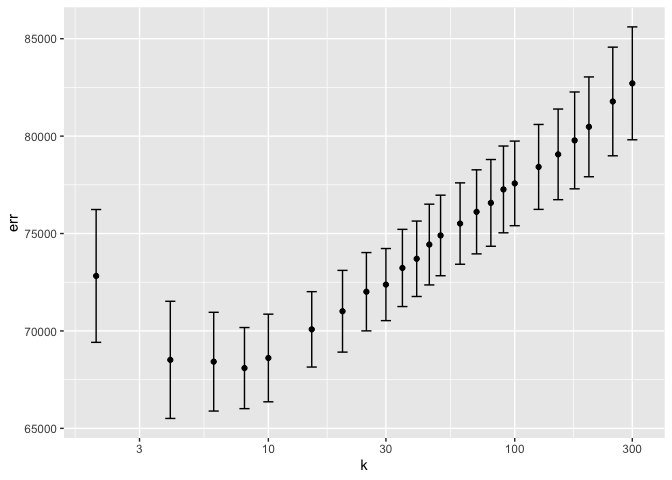
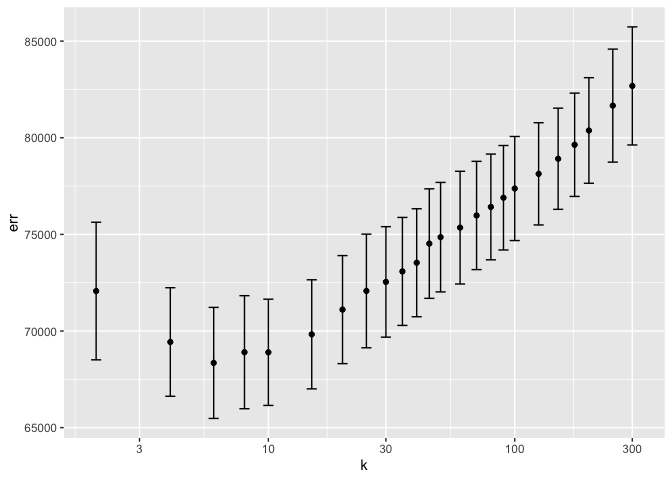
fixed

diff --git a/homework-2/Homework-2.md b/homework-2/Homework-2.md
@@ -18,9 +18,11 @@ during the fourth week of November, therefore employees and students are
 usually given Wednesday, Thursday and Friday of vacation during that
 week. This lower the average number of boarding during the month of
 November.
-![](Homework-2_files/figure-markdown_strict/unnamed-chunk-5-1.png) Those
-graphs show the boarding at a given 15 minute slot depending on the
-temperature. It is separated by the hour of the day and whether is a
+
+![](Homework-2_files/figure-markdown_strict/unnamed-chunk-5-1.png)
+
+Those graphs show the boarding at a given 15 minute slot depending on
+the temperature. It is separated by the hour of the day and whether is a
 weekday or a weekend. The results show a much higher boarding during
 weekdays, which can be explained by students needing to attend class and
 workers needing to attend their jobs. When we hold hour of day and
@@ -33,43 +35,14 @@ boarding, while 18, lower temperatures will lead to more boarding.
 
 ## Question 2
 
-    ## 
-    ## Attaching package: 'modelr'
-
-    ## The following object is masked from 'package:mosaic':
-    ## 
-    ##     resample
-
-    ## The following object is masked from 'package:ggformula':
-    ## 
-    ##     na.warn
-
-    ## 
-    ## Attaching package: 'caret'
-
-    ## The following object is masked from 'package:mosaic':
-    ## 
-    ##     dotPlot
-
-    ## The following object is masked from 'package:purrr':
-    ## 
-    ##     lift
-
-    ## 
-    ## Attaching package: 'foreach'
-
-    ## The following objects are masked from 'package:purrr':
-    ## 
-    ##     accumulate, when
-
     ##       V1       V2 
-    ## 66132.40 61225.09
+    ## 66843.64 62467.30
 
     ##   result 
-    ## 68073.62
+    ## 69310.64
 
     ##   result 
-    ## 234951.6
+    ## 234085.2
 
 The linear model achieves a lower out-of-sample mean-squared error. When
 we choose this model, we choose to regress both models, the linear and
@@ -95,43 +68,43 @@ relevant interactions before deciding the actual price of the property.
     ## [1] 56
 
     ##             (Intercept)                 lotSize                     age 
-    ##            1.321695e+05           -1.815254e+04           -1.260207e+03 
+    ##            6.080001e+04           -5.300758e+03           -1.164004e+03 
     ##               landValue              livingArea              pctCollege 
-    ##            1.618880e-01            4.290588e+01           -2.714369e+03 
+    ##            1.839941e-01            8.064404e+01           -1.929077e+03 
     ##                bedrooms              fireplaces               bathrooms 
-    ##           -2.118088e+04            1.041979e+05            4.003988e+03 
+    ##           -3.503752e+04            7.839612e+04            2.873648e+04 
     ##                   rooms            centralAirNo             lotSize:age 
-    ##            8.799530e+03            2.276161e+04           -2.258833e+02 
+    ##            1.163236e+04            5.377771e+04           -1.527844e+02 
     ##       lotSize:landValue      lotSize:livingArea      lotSize:pctCollege 
-    ##           -2.365327e-01           -7.147614e+00            6.988159e+02 
+    ##           -1.992192e-02           -1.453726e+01            4.351005e+02 
     ##        lotSize:bedrooms      lotSize:fireplaces       lotSize:bathrooms 
-    ##            5.866264e+03           -3.072667e+03           -7.275084e+03 
+    ##            1.081378e+04           -1.320249e+04            8.345940e+02 
     ##           lotSize:rooms    lotSize:centralAirNo           age:landValue 
-    ##            2.505801e+03           -5.465592e+03            3.504382e-03 
+    ##            4.001772e+02           -9.160205e+03            4.931843e-03 
     ##          age:livingArea          age:pctCollege            age:bedrooms 
-    ##            1.478103e-01            1.304823e+01            1.209168e+02 
+    ##           -3.545986e-02            1.141979e+01            1.169888e+02 
     ##          age:fireplaces           age:bathrooms               age:rooms 
-    ##           -1.664269e+02           -8.840464e+01           -4.014880e+01 
+    ##           -9.116434e+01            1.360087e+02           -7.283341e+01 
     ##        age:centralAirNo    landValue:livingArea    landValue:pctCollege 
-    ##            3.313640e+02           -2.857484e-04            1.885429e-02 
+    ##            4.984144e+02           -3.676608e-04            2.079532e-02 
     ##      landValue:bedrooms    landValue:fireplaces     landValue:bathrooms 
-    ##           -1.449667e-01           -2.889606e-01            4.290902e-01 
+    ##           -1.747095e-01           -3.664128e-01            4.982437e-01 
     ##         landValue:rooms  landValue:centralAirNo   livingArea:pctCollege 
-    ##           -6.386804e-03            1.418225e-01            5.941350e-01 
+    ##           -1.723801e-02            2.407676e-02           -9.002450e-02 
     ##     livingArea:bedrooms   livingArea:fireplaces    livingArea:bathrooms 
-    ##           -8.944776e+00            2.037167e+01            2.861889e+00 
+    ##           -5.210058e+00            3.401372e+01           -7.507431e+00 
     ##        livingArea:rooms livingArea:centralAirNo     pctCollege:bedrooms 
-    ##            2.969898e+00           -1.165967e+01            4.670690e+02 
+    ##            3.893242e+00           -2.357309e+00            8.141640e+02 
     ##   pctCollege:fireplaces    pctCollege:bathrooms        pctCollege:rooms 
-    ##           -1.127599e+03            1.825651e+02           -7.488120e+01 
+    ##           -1.029956e+03           -9.227900e+01           -8.701365e+01 
     ## pctCollege:centralAirNo     bedrooms:fireplaces      bedrooms:bathrooms 
-    ##           -7.337009e+01           -1.516784e+04            5.955459e+03 
+    ##           -5.133811e+02           -1.402377e+04            2.361879e+03 
     ##          bedrooms:rooms   bedrooms:centralAirNo    fireplaces:bathrooms 
-    ##           -8.172355e+02            4.721231e+03           -8.806100e+03 
+    ##           -1.632433e+03            1.969929e+03           -4.240364e+03 
     ##        fireplaces:rooms fireplaces:centralAirNo         bathrooms:rooms 
-    ##           -3.313349e+02            7.126804e+03           -1.622685e+03 
+    ##           -1.182867e+03            8.269941e+03           -3.853309e+02 
     ##  bathrooms:centralAirNo      rooms:centralAirNo 
-    ##           -1.216157e+04           -2.278952e+03
+    ##           -1.560727e+04           -2.919417e+03
 
 ## Question 3
 
@@ -168,11 +141,11 @@ average change higher.
 
 ## Question 4
 
-    ## [1] 0.2618266
+    ## [1] 0.2621973
 
-    ## [1] 0.2285849
+    ## [1] 0.2284214
 
-    ## [1] 0.2282182
+    ## [1] 0.2290049
 
     ## [1] 49
 
